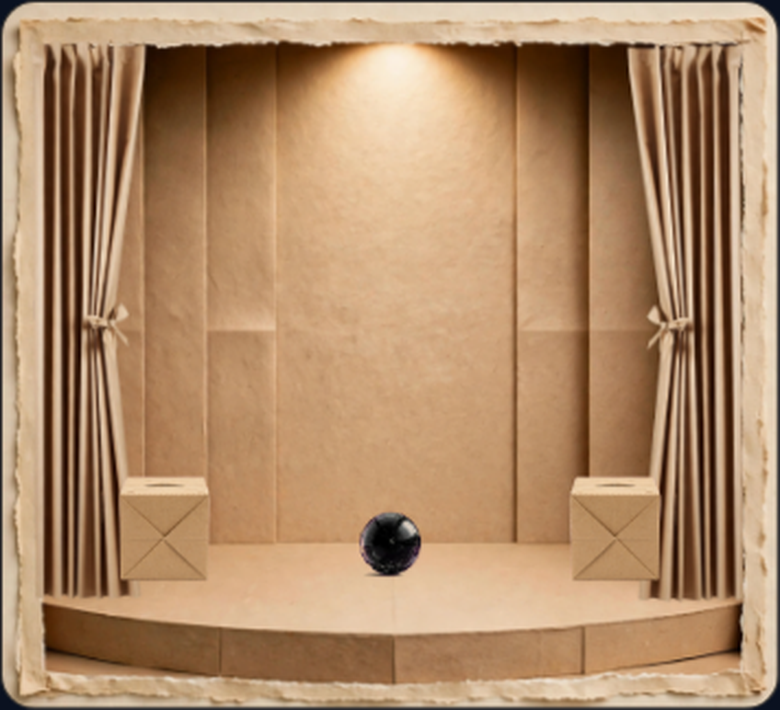
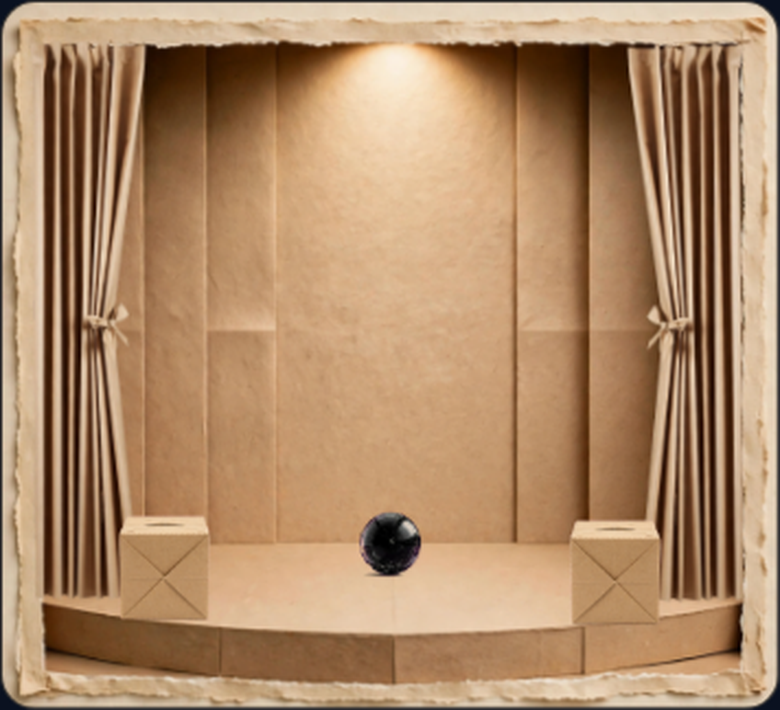
v139: opening boxes seated on the platform rim by their drawn bases (Order DF cure 1) + deck frames cap-000/030/045/060 recaptured

Changed region(s): [[0.7077, 0.6507, 0.8615, 0.8986], [0.1538, 0.6507, 0.2769, 0.8986]]

diff --git a/dashboard/quadrillion/index.html b/dashboard/quadrillion/index.html
@@ -4513,7 +4513,7 @@ document.querySelectorAll('.tbstep').forEach(function (b) {
       var rnShards=[], rnBoxes=[document.getElementById('rnBoxL'),document.getElementById('rnBoxR')];
    stage.querySelectorAll('.rn-shard').forEach(function(im){ rnShards.push(im); });
    var RN_SH=[[271.7, 383.6, 345.0, 309.1, 0.0, 0.0, 64, -72], /* v138 D4: kid 01 seat x 226.7 -> 271.7 (+45 u = +9.9 px): at its seat, rotated -49.7 deg, its subject AABB crossed the left frame edge by 7.0 px (element AABB 8.1 px) — the seat was authored before the section-10 width compensation enlarged the rendered subject; the nudge restores containment with ~2-3 px margin, all other seat values unchanged */ [1319.7, 297.7, 328.8, 238.0, -0.2, 0.0, 64, -36], [1383.1, 1111.5, 318.5, 166.0, 0.0, 0.3, 48, 0], [401.0, 1057.3, 263.1, 151.9, -0.5, 0.0, 48, 36], [808.0, 205.9, 259.3, 166.2, -0.4, 0.0, 48, 72], [301.2, 624.2, 259.9, 155.7, 0.0, 0.0, 34, -72], [583.4, 284.3, 199.1, 155.8, 0.0, 0.0, 34, -36], [1041.8, 298.3, 205.4, 147.6, 0.0, 0.0, 34, 0], [1276.1, 687.8, 211.1, 98.0, 0.0, 0.0, 34, 36], [1182.6, 958.0, 215.5, 130.3, -0.7, 0.3, 34, 72]];
-   var RN_BOX=[[198.3, 955, 282.8, 356.5], [1135.6, 955, 282.8, 356.5]]; /* v113 CURE (owner 2026-11-05, issue I-1): seats re-derived, subject base on the stage floor line (derivation in the build record); boxes visible from the first frame (pose opacity default 1) */
+   var RN_BOX=[[198.3, 1038.3, 282.8, 356.5], [1135.6, 1046.5, 282.8, 356.5]]; /* v139 CURE (owner order 2026-11-06): y re-derived per box against the platform RIM at each box's own column - the controlled quantity is the DRAWN base (element rect x 0.8856 subject fraction of paper-box-clean-v1.webp): L drawn base 265.0 -> 283.3, R 265.0 -> 285.1 stage px; the v113/v136 seat used the centre-stage floor line F (259.8) and left the drawn boxes hanging 17-20 px above their local ground (floating-census/census.md; derivation in boxfix/v139-record.md). v113 CURE (owner 2026-11-05, issue I-1): seats re-derived, subject base on the stage floor line (derivation in the build record); boxes visible from the first frame (pose opacity default 1) */
    function rnQO(p){ return 1-Math.pow(1-p,5); }
  var RN_CAP=0.62; /* v73: the smoke translucency cap (owner contrast verdict) */
  var RN_SHX=[[0,5],[0.0417,-4],[0.0833,2.5],[0.125,-1.2],[0.1667,0.5],[0.2083,0]], RN_SHY=[[0,2.2],[0.0417,-1.8],[0.0833,1.1],[0.125,-0.5],[0.1667,0]];

diff --git a/quadrillion/index.html b/quadrillion/index.html
@@ -4513,7 +4513,7 @@ document.querySelectorAll('.tbstep').forEach(function (b) {
       var rnShards=[], rnBoxes=[document.getElementById('rnBoxL'),document.getElementById('rnBoxR')];
    stage.querySelectorAll('.rn-shard').forEach(function(im){ rnShards.push(im); });
    var RN_SH=[[271.7, 383.6, 345.0, 309.1, 0.0, 0.0, 64, -72], /* v138 D4: kid 01 seat x 226.7 -> 271.7 (+45 u = +9.9 px): at its seat, rotated -49.7 deg, its subject AABB crossed the left frame edge by 7.0 px (element AABB 8.1 px) — the seat was authored before the section-10 width compensation enlarged the rendered subject; the nudge restores containment with ~2-3 px margin, all other seat values unchanged */ [1319.7, 297.7, 328.8, 238.0, -0.2, 0.0, 64, -36], [1383.1, 1111.5, 318.5, 166.0, 0.0, 0.3, 48, 0], [401.0, 1057.3, 263.1, 151.9, -0.5, 0.0, 48, 36], [808.0, 205.9, 259.3, 166.2, -0.4, 0.0, 48, 72], [301.2, 624.2, 259.9, 155.7, 0.0, 0.0, 34, -72], [583.4, 284.3, 199.1, 155.8, 0.0, 0.0, 34, -36], [1041.8, 298.3, 205.4, 147.6, 0.0, 0.0, 34, 0], [1276.1, 687.8, 211.1, 98.0, 0.0, 0.0, 34, 36], [1182.6, 958.0, 215.5, 130.3, -0.7, 0.3, 34, 72]];
-   var RN_BOX=[[198.3, 955, 282.8, 356.5], [1135.6, 955, 282.8, 356.5]]; /* v113 CURE (owner 2026-11-05, issue I-1): seats re-derived, subject base on the stage floor line (derivation in the build record); boxes visible from the first frame (pose opacity default 1) */
+   var RN_BOX=[[198.3, 1038.3, 282.8, 356.5], [1135.6, 1046.5, 282.8, 356.5]]; /* v139 CURE (owner order 2026-11-06): y re-derived per box against the platform RIM at each box's own column - the controlled quantity is the DRAWN base (element rect x 0.8856 subject fraction of paper-box-clean-v1.webp): L drawn base 265.0 -> 283.3, R 265.0 -> 285.1 stage px; the v113/v136 seat used the centre-stage floor line F (259.8) and left the drawn boxes hanging 17-20 px above their local ground (floating-census/census.md; derivation in boxfix/v139-record.md). v113 CURE (owner 2026-11-05, issue I-1): seats re-derived, subject base on the stage floor line (derivation in the build record); boxes visible from the first frame (pose opacity default 1) */
    function rnQO(p){ return 1-Math.pow(1-p,5); }
  var RN_CAP=0.62; /* v73: the smoke translucency cap (owner contrast verdict) */
  var RN_SHX=[[0,5],[0.0417,-4],[0.0833,2.5],[0.125,-1.2],[0.1667,0.5],[0.2083,0]], RN_SHY=[[0,2.2],[0.0417,-1.8],[0.0833,1.1],[0.125,-0.5],[0.1667,0]];
